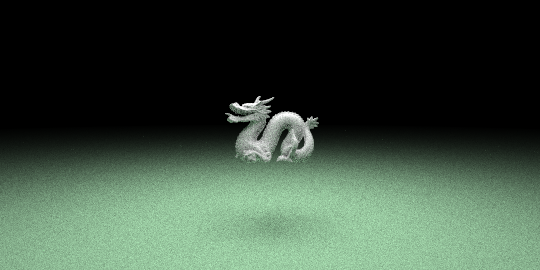
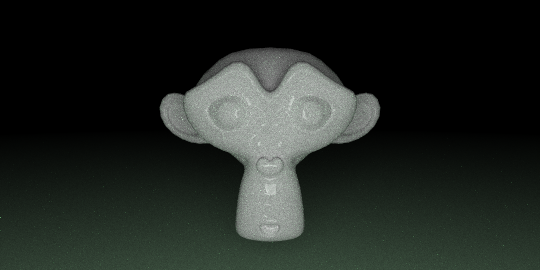
add sampling code to all rects and update image

diff --git a/src/objects/hitables/hitable.h b/src/objects/hitables/hitable.h
@@ -97,7 +97,7 @@ bool translate::bounding_box(float t0, float t1, aabb& box) const {
 		return false;
 	}
 }
-
+///////////////////////////////////////////////////////////
 class rotate_y : public hitable {
 public: 
 	rotate_y(hitable* p, float angle);
@@ -165,6 +165,163 @@ bool rotate_y::hit(const ray& r, float t_min, float t_max, hit_record& rec) cons
 		p[2] = -sin_theta * rec.p[0] + cos_theta * rec.p[2];
 		normal[0] = cos_theta * rec.normal[0] + sin_theta * rec.normal[2];
 		normal[2] = -sin_theta * rec.normal[0] + cos_theta * rec.normal[2];
+		rec.p = p;
+		rec.normal = normal;
+		return true;
+	}
+	else {
+		return false;
+	}
+
+}
+///////////////////////////////////////////////////////
+
+class rotate_x : public hitable {
+public:
+	rotate_x(hitable* p, float angle);
+	virtual bool hit(const ray& r, float t0, float t1, hit_record& rec) const;
+	virtual bool bounding_box(float t0, float t1, aabb& box) const {
+		box = bbox;
+		return hasbox;
+	}
+	virtual float pdf_value(const vec3& o, const vec3& v)const {
+		return ptr->pdf_value(o, v);
+	}
+
+	virtual vec3 random(const vec3& o) const {
+		return ptr->random(o);
+	}
+	hitable* ptr;
+	float sin_theta;
+	float cos_theta;
+	bool hasbox;
+	aabb bbox;
+};
+
+rotate_x::rotate_x(hitable* p, float angle) : ptr(p) {
+	float radians = (M_PI / 180.0) * angle;
+	sin_theta = sin(radians);
+	cos_theta = cos(radians);
+	hasbox = ptr->bounding_box(0, 1, bbox);
+	vec3 min(FLT_MAX, FLT_MAX, FLT_MAX);
+	vec3 max(-FLT_MAX, -FLT_MAX, -FLT_MAX);
+	for (int i = 0; i < 2; i++) {
+		for (int j = 0; j < 2; j++) {
+			for (int k = 0; k < 2; k++) {
+				float x = i * bbox.max().x() + (1 - i) * bbox.min().x();
+				float y = j * bbox.max().y() + (1 - j) * bbox.min().y();
+				float z = k * bbox.max().z() + (1 - k) * bbox.min().z();
+				float newy = cos_theta * y + sin_theta * z;
+				float newz = -sin_theta * y + cos_theta * z;
+				vec3 tester(x, newy, newz);
+				for (int c = 0; c < 3; c++) {
+					if (tester[c] > max[c]) {
+						max[c] = tester[c];
+					}
+					if (tester[c] < min[c]) {
+						min[c] = tester[c];
+					}
+				}
+			}
+		}
+	}
+	bbox = aabb(min, max);
+}
+
+bool rotate_x::hit(const ray& r, float t_min, float t_max, hit_record& rec) const {
+	vec3 origin = r.origin();
+	vec3 direction = r.direction();
+	origin[1] = cos_theta * r.origin()[1] - sin_theta * r.origin()[2];
+	origin[2] = sin_theta * r.origin()[1] + cos_theta * r.origin()[2];
+	direction[1] = cos_theta * r.direction()[1] - sin_theta * r.direction()[2];
+	direction[2] = sin_theta * r.direction()[1] + cos_theta * r.direction()[2];
+	ray rotated_r(origin, direction, r.time());
+	if (ptr->hit(rotated_r, t_min, t_max, rec)) {
+		vec3 p = rec.p;
+		vec3 normal = rec.normal;
+		p[1] = cos_theta * rec.p[1] + sin_theta * rec.p[2];
+		p[2] = -sin_theta * rec.p[1] + cos_theta * rec.p[2];
+		normal[1] = cos_theta * rec.normal[1] + sin_theta * rec.normal[2];
+		normal[2] = -sin_theta * rec.normal[1] + cos_theta * rec.normal[2];
+		rec.p = p;
+		rec.normal = normal;
+		return true;
+	}
+	else {
+		return false;
+	}
+
+}
+
+//////////////////////////////////////////////////////////////////
+
+class rotate_z : public hitable {
+public:
+	rotate_z(hitable* p, float angle);
+	virtual bool hit(const ray& r, float t0, float t1, hit_record& rec) const;
+	virtual bool bounding_box(float t0, float t1, aabb& box) const {
+		box = bbox;
+		return hasbox;
+	}
+	virtual float pdf_value(const vec3& o, const vec3& v)const {
+		return ptr->pdf_value(o, v);
+	}
+
+	virtual vec3 random(const vec3& o) const {
+		return ptr->random(o);
+	}
+	hitable* ptr;
+	float sin_theta;
+	float cos_theta;
+	bool hasbox;
+	aabb bbox;
+};
+
+rotate_z::rotate_z(hitable* p, float angle) : ptr(p) {
+	float radians = (M_PI / 180.0) * angle;
+	sin_theta = sin(radians);
+	cos_theta = cos(radians);
+	hasbox = ptr->bounding_box(0, 1, bbox);
+	vec3 min(FLT_MAX, FLT_MAX, FLT_MAX);
+	vec3 max(-FLT_MAX, -FLT_MAX, -FLT_MAX);
+	for (int i = 0; i < 2; i++) {
+		for (int j = 0; j < 2; j++) {
+			for (int k = 0; k < 2; k++) {
+				float x = i * bbox.max().x() + (1 - i) * bbox.min().x();
+				float y = j * bbox.max().y() + (1 - j) * bbox.min().y();
+				float z = k * bbox.max().z() + (1 - k) * bbox.min().z();
+				float newx = cos_theta * x + sin_theta * y;
+				float newy = -sin_theta * x + cos_theta * y;
+				vec3 tester(newx, newy, z);
+				for (int c = 0; c < 3; c++) {
+					if (tester[c] > max[c]) {
+						max[c] = tester[c];
+					}
+					if (tester[c] < min[c]) {
+						min[c] = tester[c];
+					}
+				}
+			}
+		}
+	}
+	bbox = aabb(min, max);
+}
+
+bool rotate_z::hit(const ray& r, float t_min, float t_max, hit_record& rec) const {
+	vec3 origin = r.origin();
+	vec3 direction = r.direction();
+	origin[0] = cos_theta * r.origin()[0] - sin_theta * r.origin()[1];
+	origin[1] = sin_theta * r.origin()[0] + cos_theta * r.origin()[1];
+	direction[0] = cos_theta * r.direction()[0] - sin_theta * r.direction()[1];
+	direction[1] = sin_theta * r.direction()[0] + cos_theta * r.direction()[1];
+	ray rotated_r(origin, direction, r.time());
+	if (ptr->hit(rotated_r, t_min, t_max, rec)) {
+		vec3 p = rec.p;
+		vec3 normal = rec.normal;
+		p[0] = cos_theta * rec.p[0] + sin_theta * rec.p[1];
+		p[1] = -sin_theta * rec.p[0] + cos_theta * rec.p[1];
+		normal[0] = cos_theta * rec.normal[0] + sin_theta * rec.normal[1];
+		normal[1] = -sin_theta * rec.normal[0] + cos_theta * rec.normal[1];
 		rec.p = p;
 		rec.normal = normal;
 		return true;

diff --git a/src/objects/hitables/rect.h b/src/objects/hitables/rect.h
@@ -11,6 +11,22 @@ public:
 		box = aabb(vec3(x0, y0, k - 0.0001), vec3(x1, y1, k - 0.0001));
 		return true;
 	}
+	virtual float pdf_value(const vec3& o, const vec3& v) const {
+		hit_record rec;
+		if (this->hit(ray(o, v), 0.001, FLT_MAX, rec)) {
+			float area = (x1 - x0) * (y1 - y0);
+			float distance_squared = rec.t * rec.t * v.squared_length();
+			float cosine = fabs(dot(v, rec.normal) / v.length());
+			return distance_squared / (cosine * area);
+		}
+		else {
+			return 0;
+		}
+	}
+	virtual vec3 random(const vec3& o) const {
+		vec3 random_point = vec3(x0 + random_number() * (x1 - x0), k, y0 + random_number() * (y1 - y0));
+		return random_point - o;
+	}
 	material* mp;
 	float x0, x1, y0, y1, k;
 };
@@ -90,6 +106,22 @@ public:
 	virtual bool bounding_box(float t0, float t1, aabb& box) const {
 		box = aabb(vec3(k - 0.0001, y0, z0), vec3(k - 0.0001, y1, z1));
 		return true;
+	}
+	virtual float pdf_value(const vec3& o, const vec3& v) const {
+		hit_record rec;
+		if (this->hit(ray(o, v), 0.001, FLT_MAX, rec)) {
+			float area = (y1 - y0) * (z1 - z0);
+			float distance_squared = rec.t * rec.t * v.squared_length();
+			float cosine = fabs(dot(v, rec.normal) / v.length());
+			return distance_squared / (cosine * area);
+		}
+		else {
+			return 0;
+		}
+	}
+	virtual vec3 random(const vec3& o) const {
+		vec3 random_point = vec3(y0 + random_number() * (y1 - y0), k, z0 + random_number() * (z1 - z0));
+		return random_point - o;
 	}
 	material* mp;
 	float y0, y1, z0, z1, k;

diff --git a/src/Source.cpp b/src/Source.cpp
@@ -139,7 +139,7 @@ hitable* model_scene() {
 	std::cout << "Building Scene\n";
 	nx = 1080 / 2;
 	ny = 1080 / 4;
-	ns = 100;
+	ns = 200;
 
 	SKY = BLACK_SKY;
 
@@ -157,9 +157,9 @@ hitable* model_scene() {
 	hitable** list = new hitable * [3];
 
 	int i = 0;
-	list[i++] = new sphere(vec3(0, -1000, 0), 999.0f, ground);
-	list[i++] = new rotate_y(new model("models/dragon.obj", white), 90.0f);
-	list[i++] = new flip_normals(new xz_rect(-2, 2, -2, 2, 3, new diffuse_light(new constant_texture(vec3(4, 4, 4)))));
+	list[i++] = new sphere(vec3(0, -1000, 0), 998.3f, ground);
+	list[i++] = new model("models/monkey.obj", white);
+	list[i++] = new sphere(vec3(0, 0, 6), 1.7, new diffuse_light(new constant_texture(vec3(6, 6, 6))));
 
 	lightsVector.clear();
 	lightsVector.push_back(list[2]);
